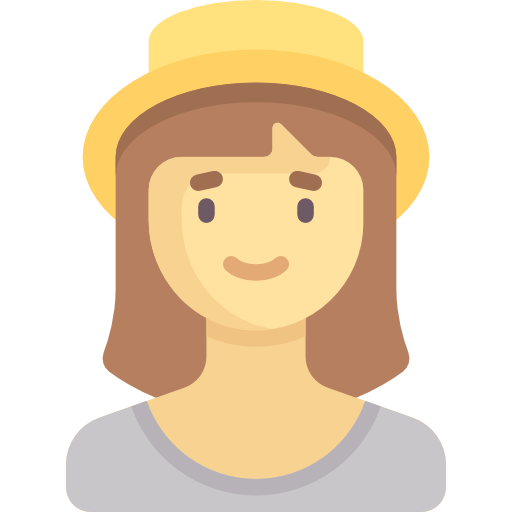
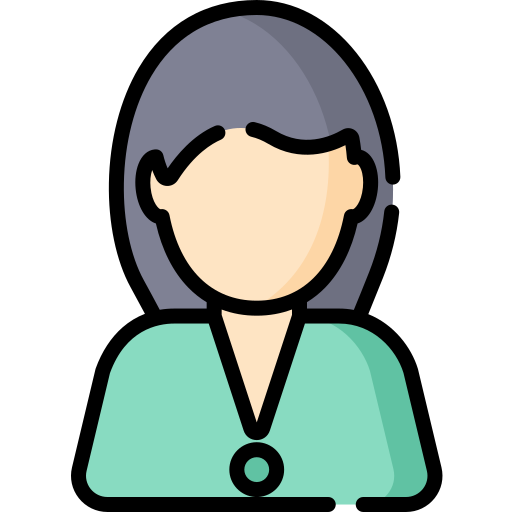
login alterando foto dependendo do sexo

diff --git a/src/app/model/alertas.ts b/src/app/model/alertas.ts
@@ -1,25 +1,31 @@
-export class Alertas{
+export class Alertas {
     alertaEmail = (email) => {
-        if(!(email.replace(/\ /g, '').length > 12)){
+        if (!(email.replace(/\ /g, '').length > 12)) {
             return alert("Email invalido, digite um emaill válido para prosseguir!");
         }
     }
 
     alertaNome = (nome) => {
-        if(!(nome.replace(/\ /g, '').length > 8)){
+        if (!(nome.replace(/\ /g, '').length > 8)) {
             return alert("Seu nome deve possuir pelo menos 8 caracteres");
         }
     }
 
     alertaSenha = (senha) => {
-        if(!(senha.length > 8 && /\d/.test(senha) && /[a-z]/.test(senha))){
+        if (!(senha.length > 8 && /\d/.test(senha) && /[a-z]/.test(senha))) {
             return alert("Digite uma senha válida!\nDeve conter 8 ou mais caracteres.\nDeve conter letras e números.");
         }
     }
 
     alertaTelefone = (telefone) => {
-        if(!(telefone.length > 9)){
+        if (!(telefone.length > 9)) {
             return alert("Telefone inválido, digite um telefone válido");
+        }
+    }
+
+    alertaSexo = (sexo) => {
+        if (sexo == null) {
+            return alert("Informe o sexo.");
         }
     }
 }

diff --git a/src/app/services/storage.service.ts b/src/app/services/storage.service.ts
@@ -10,36 +10,44 @@ export class StorageService {
 
   constructor() { }
 
-  salvarCarrinho(carrinho){
+  salvarCarrinho(carrinho) {
     localStorage.setItem('carrinho', JSON.stringify(carrinho));
   }
 
-  recuperarCarrinho(){
+  recuperarCarrinho() {
     return JSON.parse(localStorage.getItem('carrinho'));
   }
 
-  salvarUsuario(cliente: Cliente){
+  salvarUsuario(cliente: Cliente) {
     localStorage.setItem('cliente', JSON.stringify(cliente));
   }
 
-  nomeCliente():string{
+  nomeCliente(): string {
     let cliente = this.recuperarUsuario();
 
-    if(cliente != null){
+    if (cliente != null) {
       return cliente.nome;
     }
     return "";
   }
 
-  recuperarUsuario(){
+  sexoCliente(): string {
+    let cliente = this.recuperarUsuario();
+
+    if (cliente != null) {
+      return cliente.sexo;
+    }
+    return "";
+  }
+  recuperarUsuario() {
     return JSON.parse(localStorage.getItem('cliente'));
   }
 
-  removerUsuario(){
+  removerUsuario() {
     localStorage.removeItem('cliente');
   }
 
-  removerCarrinho(){
+  removerCarrinho() {
     localStorage.removeItem('carrinho');
   }
 }

diff --git a/src/app/components/cadastro/cadastro.component.html b/src/app/components/cadastro/cadastro.component.html
@@ -20,11 +20,11 @@
                         placeholder="Seu nome Completo" required maxlength="35">
                 </div>
                 <div class="form-group">
-                    <select class="form-control formgroup" formControlName="sexo" id="sexo">
-                        <option selected disabled value="">Sexo</option>
-                        <option value="masculino">Masculino</option>
-                        <option value="feminino">Feminino</option>
-                        <option value="prefiroNaoInformar">Prefiro não informar</option>
+                    <select class="form-control formgroup" placeholder="Sexo" formControlName="sexo" required>
+                        <option selected disabled>Sexo</option>
+                        <option>Masculino</option>
+                        <option>Feminino</option>
+                        <option>Prefiro não informar</option>
                     </select>
                 </div>
                 <div class="form-group row">

diff --git a/src/app/components/header/header.component.html b/src/app/components/header/header.component.html
@@ -39,9 +39,9 @@
             <div [ngClass]="logado ? 'aparecer': 'esconder'">
                 <form class="px-4 py-3">
                     <div class="text-center">
-                        <img *ngIf="sexo == 'Masculino'" src="../../../assets/images/login_perfil.png" width="100px">
-                        <img *ngIf="nome == 'Feminino'" src="../../../assets/images/woman.png" width="100px">
-                        <img *ngIf="nome == 'Prefiro não informar'" src="../../../assets/images/woman.png"
+                        <img *ngIf="sexo == 'Masculino'" src="../../../assets/images/man.png" width="100px">
+                        <img *ngIf="sexo == 'Feminino'" src="../../../assets/images/woman.png" width="100px">
+                        <img *ngIf="sexo == 'Prefiro não informar'" src="../../../assets/images/suspect.png"
                             width="100px">
                         <p>{{nome}}</p>
                     </div>

diff --git a/src/app/components/header/header.component.ts b/src/app/components/header/header.component.ts
@@ -15,6 +15,7 @@ export class HeaderComponent implements OnInit {
   email: string;
   senha: string;
   nome: string;
+  sexo: string;
   logado: boolean;
 
   constructor(private fb: FormBuilder, private requisicoes: RequisicoesService, private route: Router, private storage: StorageService) { }
@@ -22,7 +23,8 @@ export class HeaderComponent implements OnInit {
   ngOnInit(): void {
     this.formLogin = this.fb.group({
       email: [this.email],
-      senha: [this.senha]
+      senha: [this.senha],
+      sexo : [this.sexo],
     });
 
     this.verificar();
@@ -35,6 +37,7 @@ export class HeaderComponent implements OnInit {
     } else {
       this.logado = true;
       this.nome = this.storage.nomeCliente();
+      this.sexo = this.storage.sexoCliente();
     }
   }
 

diff --git a/src/app/model/validacoes.ts b/src/app/model/validacoes.ts
@@ -72,7 +72,7 @@ export class Validacoes {
     verificarDadosCliente(cliente: Cliente){
         if(this.validarCpf(cliente.cpf) && cliente.email.replace(/\ /g, '').length > 12 &&
         cliente.nome.replace(/\ /g, '').length > 8 && this.validarSenha(cliente.senha) &&
-        cliente.telefone.length > 9){
+        cliente.telefone.length > 9 && cliente.sexo != null){
             return true;
         }
 
@@ -85,6 +85,7 @@ export class Validacoes {
         alerta.alertaNome(cliente.nome);
         alerta.alertaSenha(cliente.senha);
         alerta.alertaTelefone(cliente.telefone);
+        alerta.alertaSexo(cliente.sexo);
         return false;
     }
 }

diff --git a/src/app/components/cadastro/cadastro.component.css b/src/app/components/cadastro/cadastro.component.css
@@ -19,7 +19,6 @@ body{
 }
 
 #fotoFixa{
-    background-image: url(/screens/images/tentativa2.jpg);
     background-repeat: no-repeat;
     background-attachment: fixed;
     margin: 10px;
